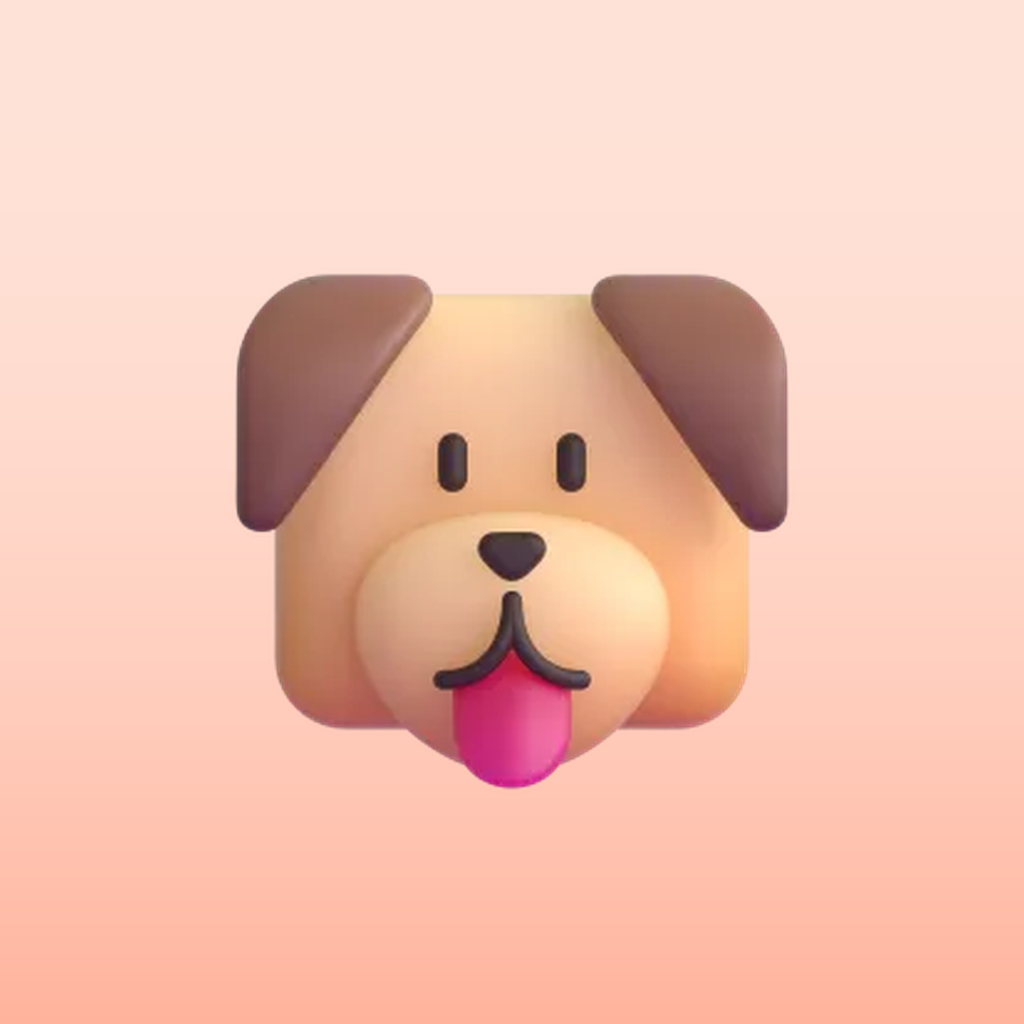
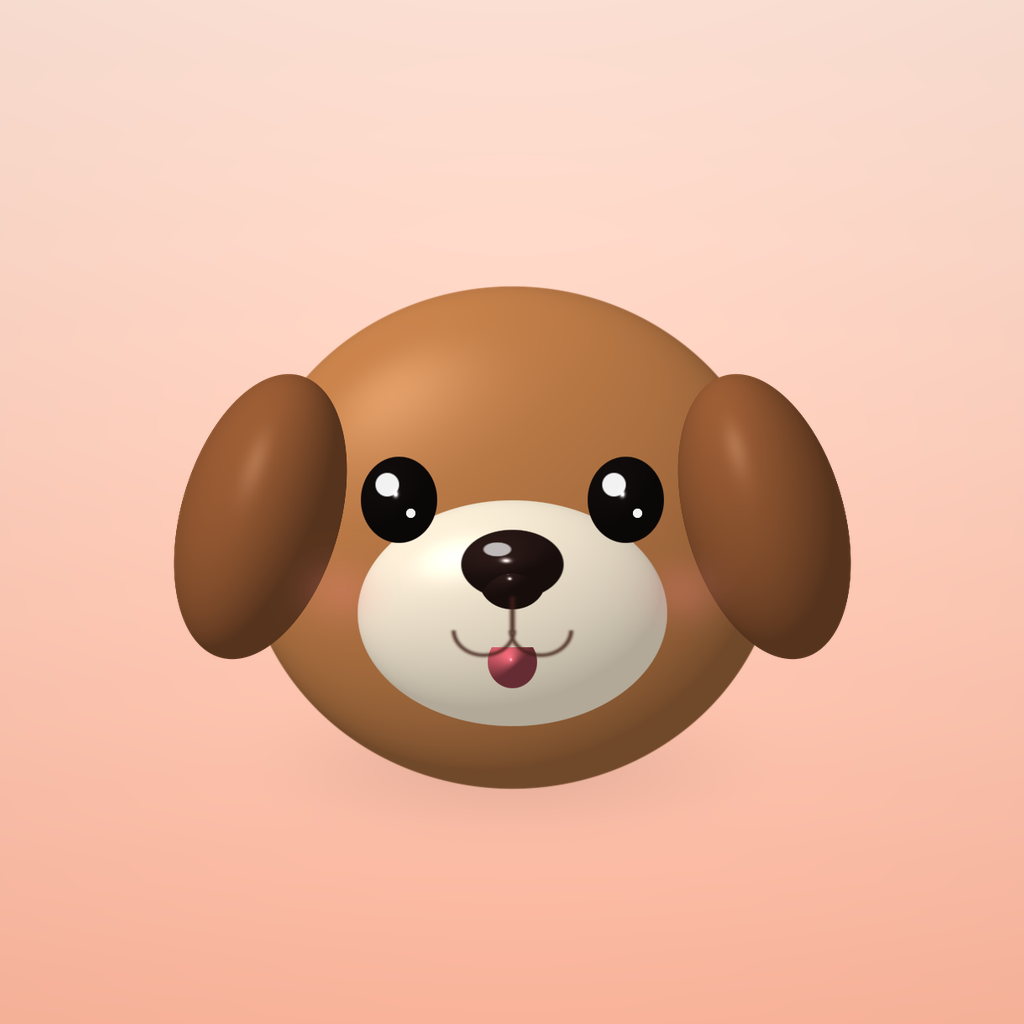
feat(animalfriends): 앱 아이콘 — 동글동글한 점토 느낌 강아지 얼굴 (직접 그림)
다시 만들기: python scripts/icons/animalfriends.py && python scripts/make-icons.py

Claude-Session: https://claude.ai/code/session_01VUxXQ3aEF3G1WUsDGEMEsn

Changed region(s): [[0.1562, 0.25, 0.8438, 0.7812]]

diff --git a/scripts/icons/animalfriends.py b/scripts/icons/animalfriends.py
@@ -1,0 +1,168 @@
+# 동물 친구들 앱 아이콘 (직접 그림): 동글동글한 점토 느낌 강아지 얼굴. 실행: python scripts/icons/animalfriends.py → python scripts/make-icons.py
+import numpy as np
+from PIL import Image, ImageFilter
+S = 1024
+rng = np.random.default_rng(7)
+y, x = np.mgrid[0:S, 0:S].astype(np.float32)
+
+def blur(a, r):
+    im = Image.fromarray(np.clip(a * 255, 0, 255).astype(np.uint8))
+    return np.asarray(im.filter(ImageFilter.GaussianBlur(r)), np.float32) / 255
+
+def ell(cx, cy, rx, ry, rot=0.0):
+    c, s = np.cos(rot), np.sin(rot)
+    dx, dy = x - cx, y - cy
+    u = (dx * c + dy * s) / rx
+    v = (-dx * s + dy * c) / ry
+    return np.sqrt(u * u + v * v)  # <1 inside
+
+def noise(scale, seed):
+    r = np.random.default_rng(seed)
+    n = r.random((S // scale + 2, S // scale + 2)).astype(np.float32)
+    im = Image.fromarray((n * 255).astype(np.uint8)).resize((S, S), Image.BICUBIC)
+    return np.asarray(im, np.float32) / 255
+
+# 털: 가는 결(위에서 아래로 흐르는 결) + 가장자리 들쭉날쭉
+strand = blur(rng.random((S, S)).astype(np.float32), 0.6)
+streak = np.asarray(Image.fromarray((rng.random((S, S)) * 255).astype(np.uint8)).filter(ImageFilter.BoxBlur(1)).resize((S, S)), np.float32) / 255
+edge_n = noise(3, 1) * 0.6 + noise(9, 2) * 0.4
+
+def polar_noise(cx, cy, k=700, rs=26, seed=3):
+    r = np.random.default_rng(seed)
+    g = r.random((S // rs + 3, k + 1)).astype(np.float32)
+    g[:, -1] = g[:, 0]
+    th = (np.arctan2(y - cy, x - cx) / (2 * np.pi) + 0.5) * k
+    rr = np.hypot(x - cx, y - cy) / rs
+    i0 = np.floor(th).astype(int); f = th - i0
+    j0 = np.clip(np.floor(rr).astype(int), 0, g.shape[0] - 2); fr = rr - np.floor(rr)
+    a = g[j0, i0 % k] * (1 - f) + g[j0, (i0 + 1) % k] * f
+    b = g[j0 + 1, i0 % k] * (1 - f) + g[j0 + 1, (i0 + 1) % k] * f
+    return a * (1 - fr) + b * fr
+
+PN = polar_noise(S / 2, S / 2 - 20)
+PN2 = polar_noise(S / 2, S / 2 - 20, k=3000, rs=6, seed=9)
+
+def fur_mask(d, fuzz=0.06):
+    # d<1 inside; 가장자리를 털 노이즈로 흔들어 보송하게
+    return np.clip((1 - d) * 160, 0, 1)  # 매끈한 테두리 (안티에일리어싱)
+
+def dome(d):
+    return np.sqrt(np.clip(1 - np.minimum(d, 1) ** 2, 0, 1))
+
+def shade(h, base, light=(-0.45, -0.6, 0.66), amb=0.42, spec=0.0):
+    gy, gx = np.gradient(h * 140)
+    n = np.stack([-gx, -gy, np.ones_like(h)], -1)
+    n /= np.linalg.norm(n, axis=-1, keepdims=True)
+    L = np.array(light); L = L / np.linalg.norm(L)
+    lam = np.clip((n * L).sum(-1), 0, 1)
+    col = base[None, None, :] * (amb + (1 - amb) * lam)[..., None]
+    if spec:
+        H = L + np.array([0, 0, 1.0]); H /= np.linalg.norm(H)
+        sp = np.clip((n * H).sum(-1), 0, 1) ** 60 * spec
+        col = col + sp[..., None]
+    return col
+
+ALPHA = np.zeros((S, S), np.float32)
+def over(dst, col, a):
+    global ALPHA
+    ALPHA = ALPHA * (1 - a) + a
+    return dst * (1 - a[..., None]) + col * a[..., None]
+
+# 배경: 앱 대표색(산호색) 파스텔 그라데이션
+top, bot = np.array([1.0, 0.89, 0.84]), np.array([1.0, 0.72, 0.62])
+t = (y / S)[..., None]
+BG = top * (1 - t) + bot * t
+vig = ell(S * .5, S * .45, S * .75, S * .75)
+BG = BG * (1.02 - 0.06 * np.clip(vig, 0, 1))[..., None]
+img = np.zeros((S, S, 3), np.float32)
+
+C = S / 2
+# 그림자
+
+
+BROWN = np.array([0.66, 0.40, 0.22]); CREAM = np.array([1.0, 0.95, 0.86]); EAR = np.array([0.45, 0.25, 0.14])
+furtex = 1.0
+
+# 머리 (아래가 살짝 넓은 찹쌀떡 모양)
+dh = ell(C, C + 30, 320, 300)
+ah = fur_mask(dh, 0.04)
+hh = dome(dh)
+head = shade(hh, np.array([0.80, 0.52, 0.30]), amb=0.55, spec=0.12)
+# 이마 가운데 크림색 줄 + 주둥이 크림색
+blaze = np.clip(1 - ell(C, C - 120, 70, 200), 0, 1)
+muz_d = ell(C, C + 120, 185, 135)
+cream_a = np.clip((1 - muz_d) * 25, 0, 1)
+
+cream = shade(hh, CREAM, amb=0.7, spec=0.12)
+headcol = head * (1 - cream_a[..., None]) + cream * cream_a[..., None]
+img = over(img, np.clip(headcol * furtex, 0, 1), ah)
+
+# 귀 (축 늘어진 강아지 귀) — 얼굴 뒤
+for sgn in (-1, 1):
+    d = ell(C + sgn * 300, C + 5, 95, 175, rot=sgn * -0.28)
+    a = fur_mask(d, 0.05)
+    h = dome(d) * 0.9
+    img = over(img, np.clip(shade(h, np.array([0.62, 0.37, 0.21]), amb=0.55, spec=0.1), 0, 1), a)
+
+# 주둥이 볼록 (조명만 더함)
+mh = dome(muz_d) * 0.6
+mz = shade(hh * 0.6 + mh, CREAM, amb=0.7, spec=0.15)
+ma = np.clip((1 - muz_d) * 120, 0, 1)
+img = over(img, np.clip(mz * furtex, 0, 1), ma)
+
+# 볼 홍조
+for sgn in (-1, 1):
+    b = blur(np.clip(1 - ell(C + sgn * 205, C + 95, 55, 38), 0, 1), 18)
+    img = over(img, np.array([1.0, 0.55, 0.55]), b * 0.45)
+
+# 눈 (반짝이는 검은 구슬)
+for sgn in (-1, 1):
+    ex, ey = C + sgn * 135, C - 15
+    d = ell(ex, ey, 46, 52)
+    a = np.clip((1 - d) * 40, 0, 1)
+    h = dome(d)
+    eye = shade(h, np.array([0.07, 0.05, 0.05]), amb=0.6, spec=1.2)
+    img = over(img, np.clip(eye, 0, 1), a)
+    for (ox, oy, rr) in ((-14, -18, 15), (14, 16, 6)):
+        hl = np.clip((1 - ell(ex + ox, ey + oy, rr, rr)) * 8, 0, 1)
+        img = over(img, np.array([1, 1, 1.0]), hl * 0.95)
+
+# 코 (반질반질 하트 모양 비슷한 둥근 세모)
+nd = np.minimum(ell(C, C + 62, 62, 42), ell(C, C + 82, 40, 34))
+na = np.clip((1 - nd) * 30, 0, 1)
+nose = shade(dome(nd), np.array([0.17, 0.10, 0.09]), amb=0.55, spec=0.9)
+img = over(img, np.clip(nose, 0, 1), na)
+hl = np.clip((1 - ell(C - 18, C + 44, 18, 9)) * 6, 0, 1)
+img = over(img, np.array([1, 1, 1.0]), hl * 0.7)
+
+# 입 (작은 ω) + 혀
+mouth = np.zeros((S, S), np.float32)
+for sgn in (-1, 1):
+    d = ell(C + sgn * 34, C + 140, 36, 30)
+    ring = np.clip(1 - np.abs(d - 1) * 9, 0, 1) * (y > C + 140)
+    mouth = np.maximum(mouth, ring)
+stem = np.clip(1 - np.abs(x - C) / 5, 0, 1) * ((y > C + 100) & (y < C + 142))
+mouth = np.maximum(mouth, stem)
+td = ell(C, C + 178, 30, 32)
+ta = np.clip((1 - td) * 25, 0, 1) * (y > C + 160)
+img = over(img, np.clip(shade(dome(td), np.array([0.96, 0.42, 0.48]), spec=0.4), 0, 1), ta)
+img = over(img, np.array([0.25, 0.12, 0.09]), blur(mouth, 1.2))
+
+K = 0.84  # 안드로이드 동그란 마스크(가운데 약 80%) 안에 귀까지 들어가게
+fg = Image.fromarray((np.clip(img, 0, 1) * 255).astype(np.uint8)).resize((int(S*K), int(S*K)), Image.LANCZOS)
+al = Image.fromarray((np.clip(ALPHA, 0, 1) * 255).astype(np.uint8)).resize((int(S*K), int(S*K)), Image.LANCZOS)
+off = (S - int(S*K)) // 2
+F = np.zeros((S, S, 3), np.float32); A = np.zeros((S, S), np.float32)
+F[off:off+fg.size[1], off:off+fg.size[0]] = np.asarray(fg, np.float32) / 255
+A[off:off+al.size[1], off:off+al.size[0]] = np.asarray(al, np.float32) / 255
+sh = blur(np.clip(1 - ell(C, C + 250, 260, 55), 0, 1), 28)
+BG = BG * (1 - 0.16 * sh)[..., None]
+# 털끝 은은한 빛 번짐
+glow = blur(A, 10)[..., None]
+BG = BG * (1 - 0.0 * glow) + np.array([1, .97, .93]) * glow * 0.0 + BG * 0
+BG = np.asarray(BG)
+res = BG * (1 - A[..., None]) + F * A[..., None] / np.maximum(A[..., None], 1e-3) * A[..., None]
+res = BG * (1 - A[..., None]) + F  # F 는 이미 알파가 곱해진 색
+out = Image.fromarray((np.clip(res, 0, 1) * 255).astype(np.uint8))
+out.save('apps/animalfriends/icon-1024.png')
+print('ok')
